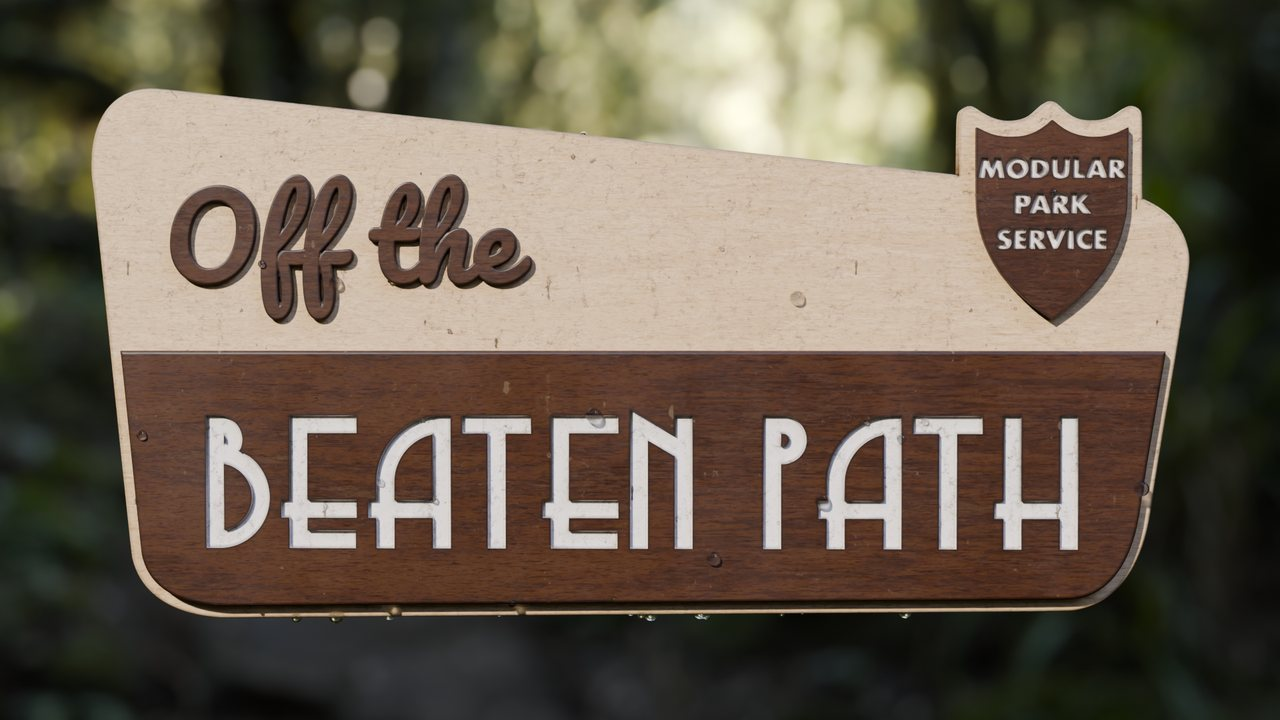
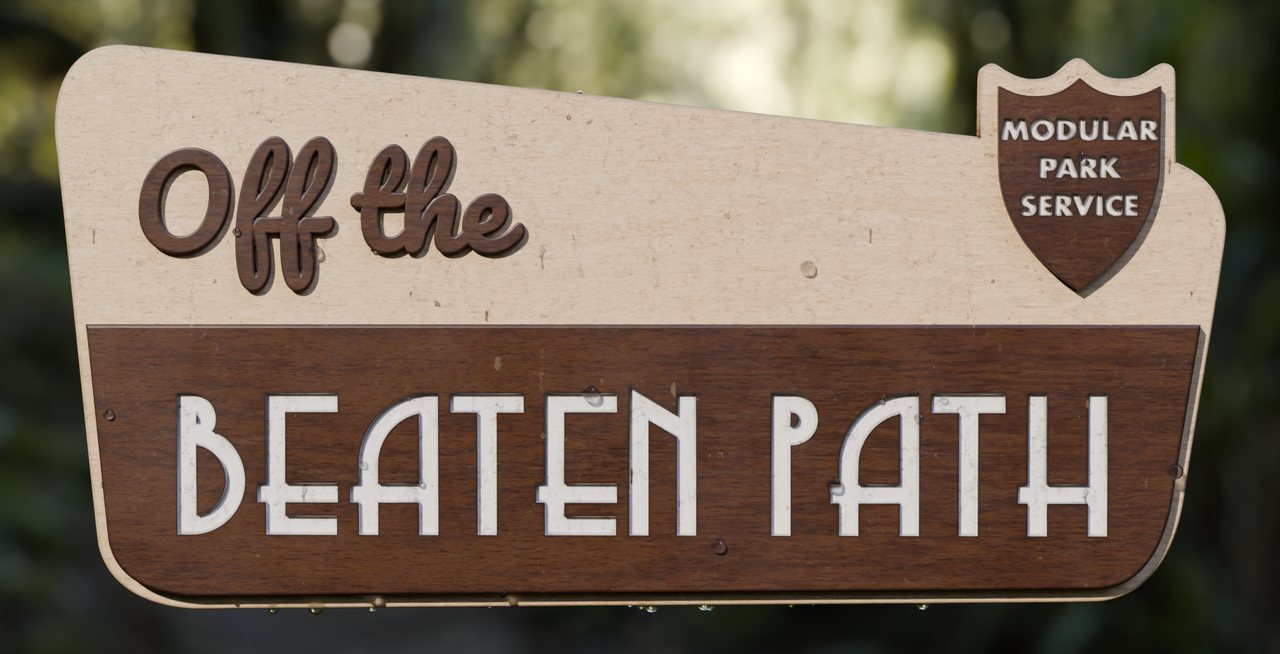
MPS hero: crop to the sign, smaller framed image on cream

diff --git a/assets/css/mps.css b/assets/css/mps.css
@@ -12,10 +12,10 @@
 body { margin: 0; background: var(--cream); color: var(--brown); font: 1.05rem/1.6 var(--font-body); }
 a { color: inherit; }
 
-.mps-hero { background: #22271b; line-height: 0; }
-.mps-hero__img { display: block; width: 100%; height: auto; max-height: 82vh; margin: 0 auto; object-fit: contain; object-position: center; }
+.mps-hero { padding: 2rem 1.25rem 0; line-height: 0; }
+.mps-hero__img { display: block; width: 100%; max-width: 54rem; height: auto; margin: 0 auto; border-radius: 14px; box-shadow: 0 10px 30px rgba(66, 39, 7, .28); }
 
-.mps-carousel { display: flex; align-items: center; gap: .5rem; max-width: 62rem; margin: 1rem auto 0; padding: 0 1rem; }
+.mps-carousel { display: flex; align-items: center; gap: .5rem; max-width: 54rem; margin: 1.25rem auto 0; padding: 0 1rem; }
 .mps-carousel__track { list-style: none; margin: 0; padding: 1rem .5rem; display: flex; gap: 1rem; overflow-x: auto; scroll-snap-type: x mandatory; flex: 1; scrollbar-width: none; }
 .mps-carousel__track::-webkit-scrollbar { display: none; }
 .mps-carousel__arrow { background: none; border: 1px solid var(--rule); border-radius: 50%; width: 2.4rem; height: 2.4rem; font-size: 1.4rem; line-height: 1; color: inherit; cursor: pointer; flex: 0 0 auto; }

diff --git a/mps/index.html b/mps/index.html
@@ -10,8 +10,8 @@ sitemap: false
        src="{{ '/assets/images/mps/sign-1280.jpg' | relative_url }}"
        srcset="{{ '/assets/images/mps/sign-640.jpg' | relative_url }} 640w,
                {{ '/assets/images/mps/sign-1280.jpg' | relative_url }} 1280w,
-               {{ '/assets/images/mps/sign-1920.jpg' | relative_url }} 1920w"
-       sizes="100vw" width="1920" height="1080"
+               {{ '/assets/images/mps/sign-1800.jpg' | relative_url }} 1800w"
+       sizes="100vw" width="1800" height="920"
        alt="Wooden park-style sign reading Off the Beaten Path, with the Modular Park Service shield">
 </section>
 
